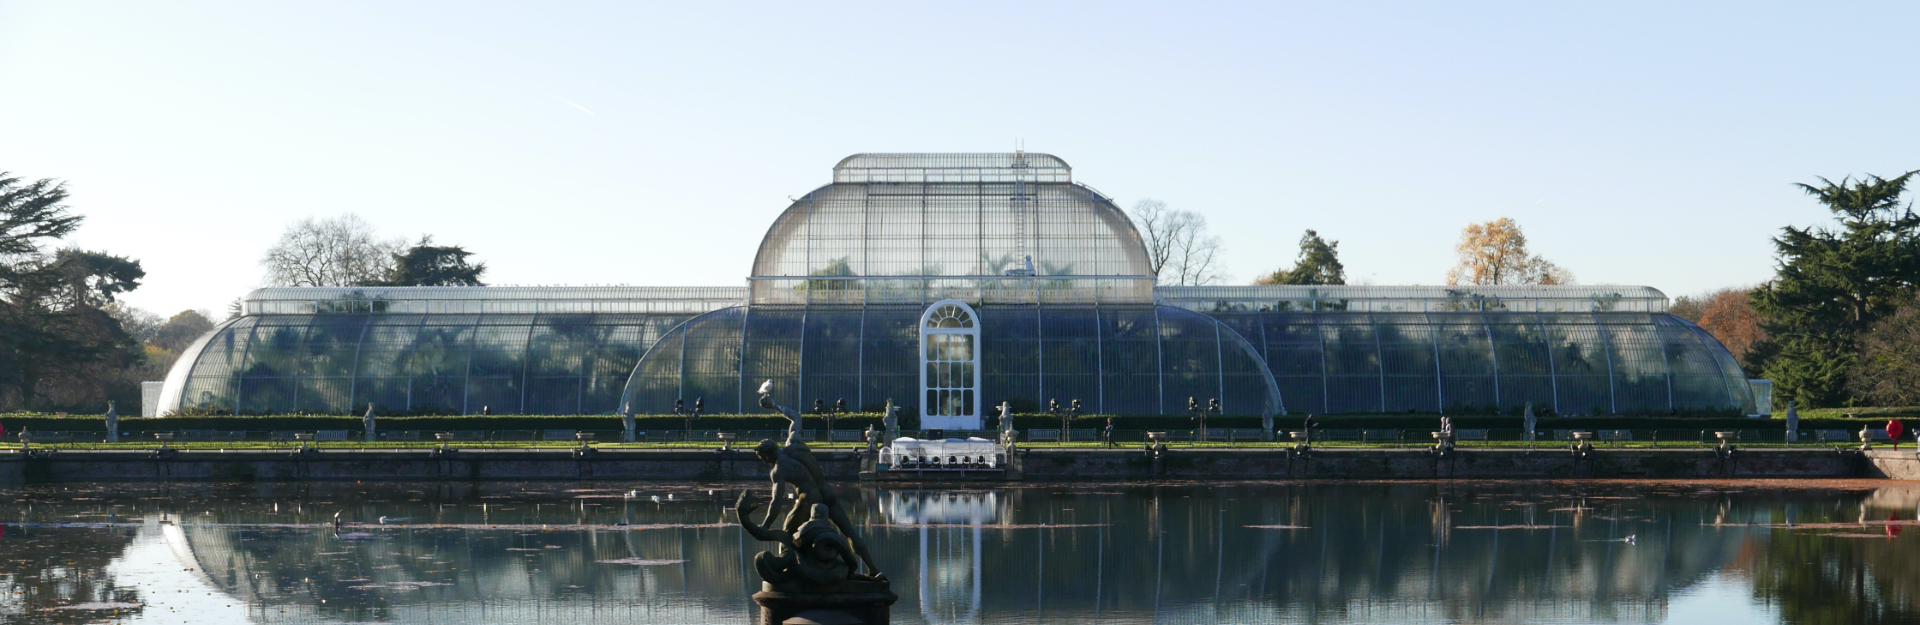
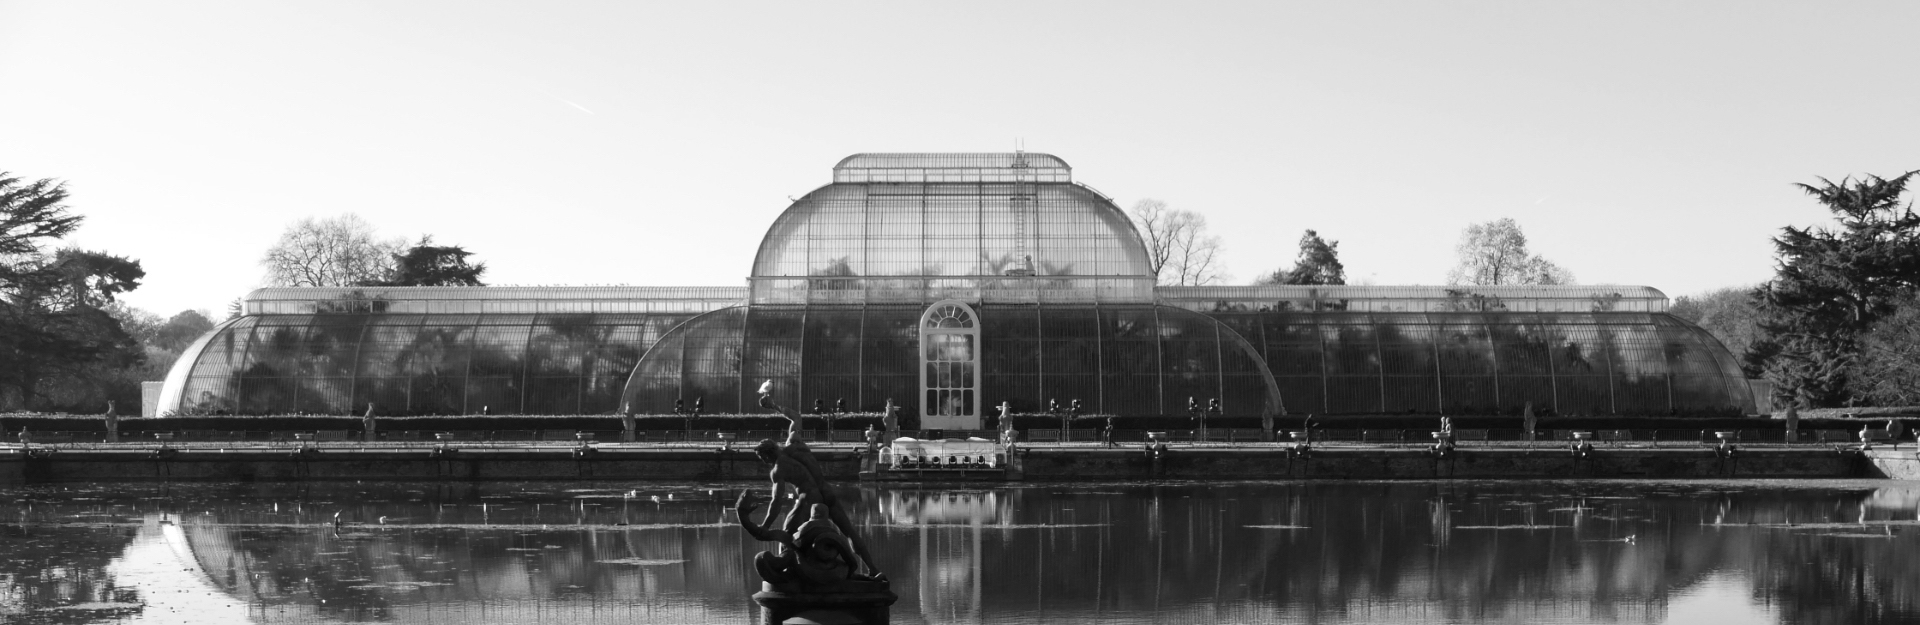
file transfer

diff --git a/style.css b/style.css
@@ -109,18 +109,18 @@ nav li a:active {
 .hero-overlay {
 	position: absolute;
 	width: 940px;
-	top: 200px;
-	height: 200px;
+	top: 202px;
+	height: 550px;
 	z-index: 100px;
 	background-repeat: no-repeat;
 	background-position: center;
-	color: #cdd37b;
+	color: #cc9a10;
 }
 
 .herophoto {
 	width: 100%;
 	height: 403px;
-	background-image: url("../images/palmhouse\ copy.jpg");
+	background-image: url("../images/palmhouse.jpg");
 	background-repeat: no-repeat;
 	background-size: cover;
 	background-position: center;

diff --git a/index.html b/index.html
@@ -57,7 +57,8 @@
 	<section class="herophoto">
 	<div class="container">
 		<div class="hero-overlay">
-		<h1 class="hero-headline">Welcome to Kew Gardens</h1>
+		<h1 class="hero-headline">Welcome to</h1>
+		<h1 class="hero-headline">Kew Gardens</h1>
 		
 		
 	</div>
